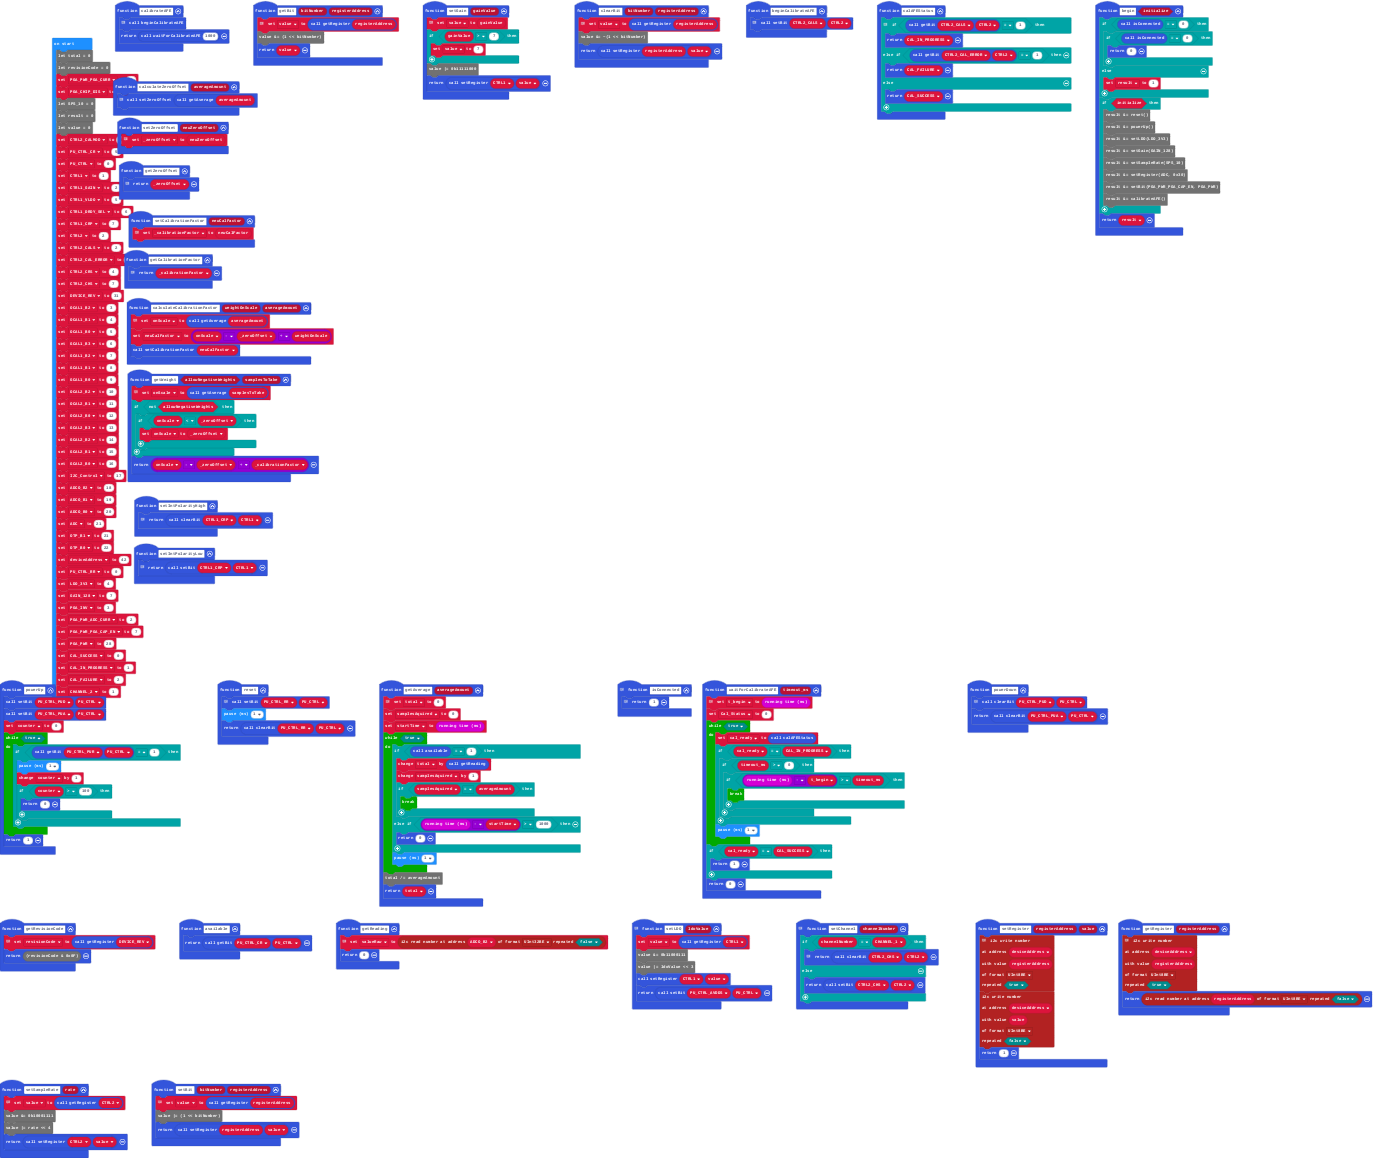
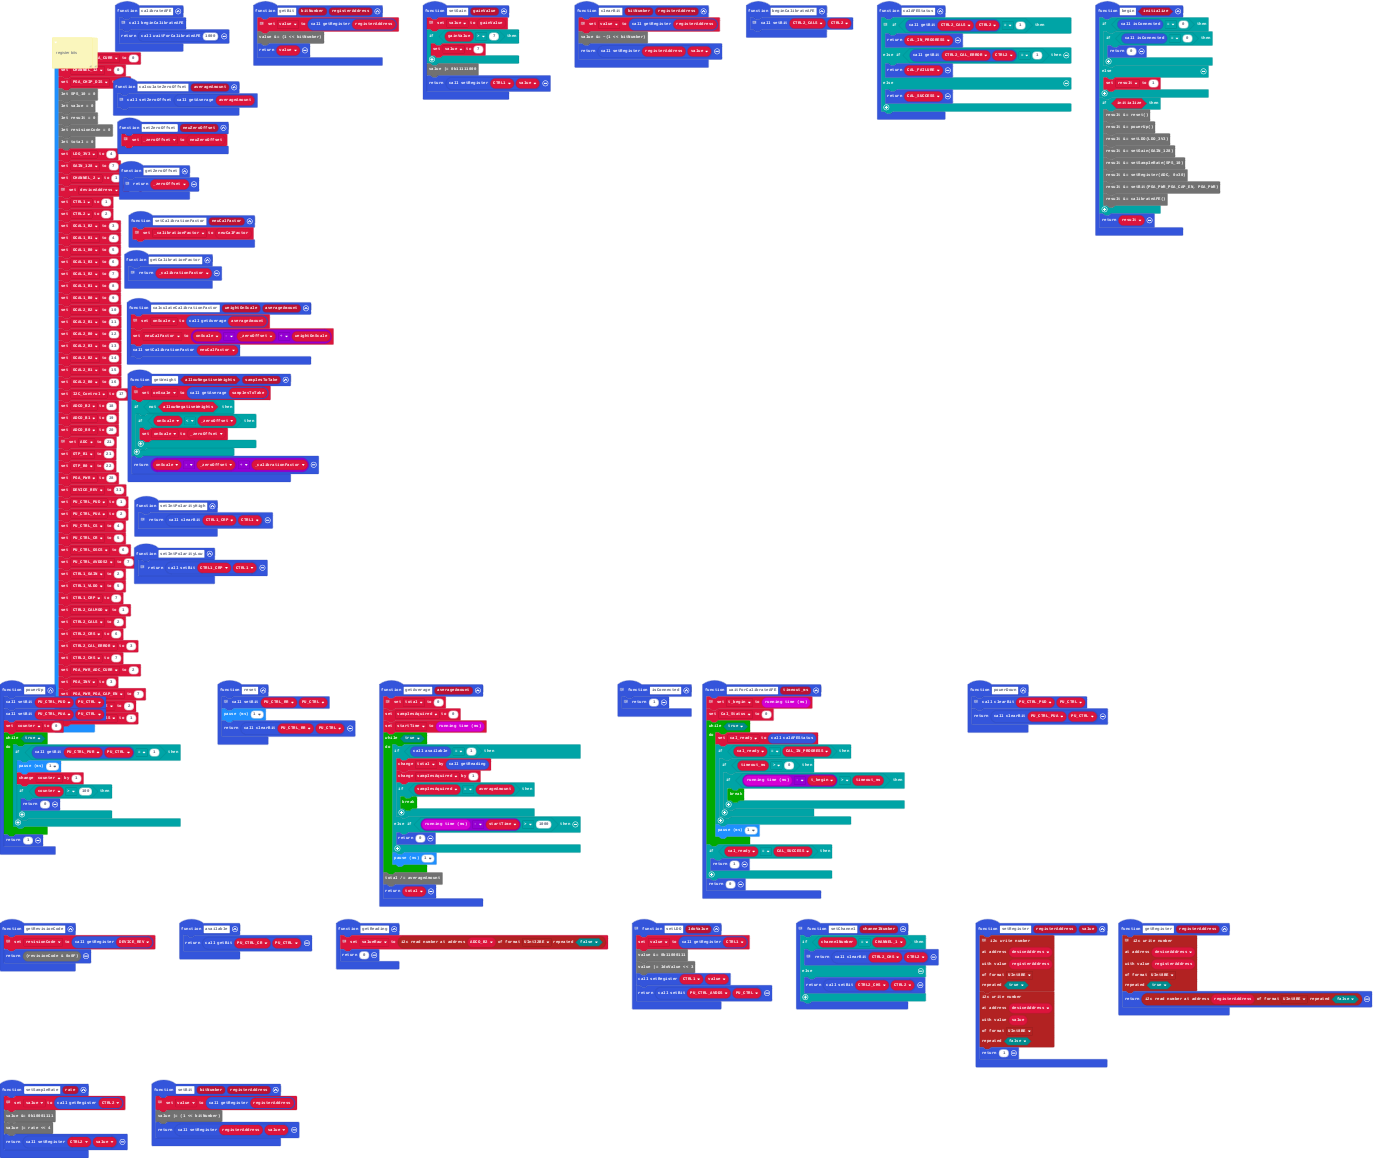
tidied variables

Changed region(s): [[0.031, 0.0311, 0.1242, 0.6528]]

diff --git a/main.ts b/main.ts
@@ -187,6 +187,7 @@ function getReading () {
     return 0
 }
 function reset () {
+    let PU_CTRL_RR = 0
     // line 190
     setBit(PU_CTRL_RR, PU_CTRL)
     basic.pause(1)
@@ -246,6 +247,18 @@ function waitForCalibrateAFE (timeout_ms: number) {
     }
     return 0
 }
+/**
+ * variables
+ */
+/**
+ * 10 samples/second
+ */
+/**
+ * register addresses
+ */
+/**
+ * register bits
+ */
 let cal_ready = 0
 let Cal_Status = 0
 let t_begin = 0
@@ -254,47 +267,40 @@ let valueRaw = 0
 let startTime = 0
 let samplesAquired = 0
 let counter = 0
-let PU_CTRL_PUA = 0
-let PU_CTRL_PUD = 0
+let CAL_SUCCESS = 0
 let _calibrationFactor = 0
 let onScale = 0
+let PU_CTRL = 0
 let _zeroOffset = 0
-let CAL_FAILURE = 0
 let CAL_IN_PROGRESS = 0
-let CAL_SUCCESS = 0
-let PU_CTRL_RR = 0
-let deviceAddress = 0
-let ADCO_B2 = 0
-let DEVICE_REV = 0
+let CAL_FAILURE = 0
 let CTRL2_CHS = 0
 let CTRL2_CAL_ERROR = 0
 let CTRL2_CALS = 0
-let CTRL2 = 0
 let CTRL1_CRP = 0
-let CTRL1 = 0
-let PU_CTRL = 0
 let PU_CTRL_CR = 0
-let total = 0
-let revisionCode = 0
+let PU_CTRL_PUA = 0
+let PU_CTRL_PUD = 0
+let DEVICE_REV = 0
+let ADCO_B2 = 0
+let CTRL2 = 0
+let CTRL1 = 0
+let deviceAddress = 0
 let PGA_PWR_PGA_CURR = 0
+let CHANNEL_12 = 0
 let PGA_CHIP_DIS = 0
 let SPS_10 = 0
-let result = 0
 let value = 0
-let CTRL2_CALMOD = 0
-PU_CTRL_CR = 5
-PU_CTRL = 0
+let result = 0
+let revisionCode = 0
+let total = 0
+let LDO_3V3 = 4
+let GAIN_128 = 7
+let CHANNEL_2 = 1
+// I2C addresses
+deviceAddress = 42
 CTRL1 = 1
-let CTRL1_GAIN = 2
-let CTRL1_VLDO = 5
-let CTRL1_DRDY_SEL = 6
-CTRL1_CRP = 7
 CTRL2 = 2
-CTRL2_CALS = 2
-CTRL2_CAL_ERROR = 3
-let CTRL2_CRS = 4
-CTRL2_CHS = 7
-DEVICE_REV = 31
 let OCAL1_B2 = 3
 let OCAL1_B1 = 4
 let OCAL1_B0 = 5
@@ -313,18 +319,29 @@ let I2C_Control = 17
 ADCO_B2 = 18
 let ADCO_B1 = 19
 let ADCO_B0 = 20
+// shared with OTP_B1
 let ADC = 21
 let OTP_B1 = 21
 let OTP_B0 = 22
-deviceAddress = 42
-PU_CTRL_RR = 0
-let LDO_3V3 = 4
-let GAIN_128 = 7
-let PGA_INV = 3
-let PGA_PWR_ADC_CURR = 2
-let PGA_PWR_PGA_CAP_EN = 7
 let PGA_PWR = 28
-CAL_SUCCESS = 0
-CAL_IN_PROGRESS = 1
+DEVICE_REV = 31
+PU_CTRL_PUD = 1
+PU_CTRL_PUA = 2
+let PU_CTRL_CS = 4
+PU_CTRL_CR = 5
+let PU_CTRL_OSCS = 6
+let PU_CTRL_AVDDS2 = 7
+let CTRL1_GAIN = 2
+let CTRL1_VLDO = 5
+CTRL1_CRP = 7
+let CTRL2_CALMOD = 1
+CTRL2_CALS = 2
+let CTRL2_CRS = 6
+CTRL2_CAL_ERROR = 3
+CTRL2_CHS = 7
+let PGA_PWR_ADC_CURR = 2
+let PGA_INV = 3
+let PGA_PWR_PGA_CAP_EN = 7
+// status codes
 CAL_FAILURE = 2
-let CHANNEL_2 = 1
+CAL_IN_PROGRESS = 1
